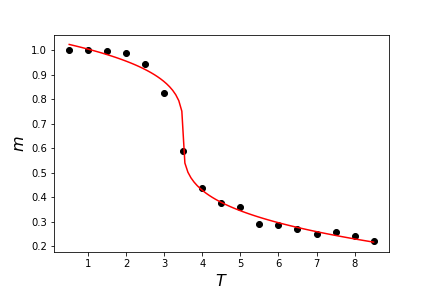
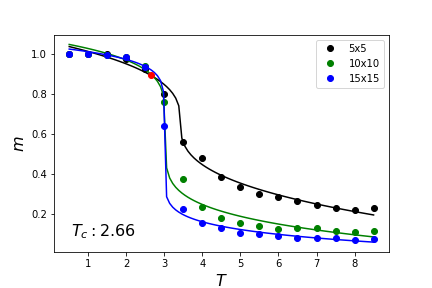
Add files via upload

diff --git a/plot_magnetization.py b/plot_magnetization.py
@@ -6,7 +6,14 @@ import numpy as np
 import matplotlib.pyplot as plt
 from localupdate import LocalUpdater
 from wolffupdate import WolffUpdater
+from scipy.optimize import curve_fit
 
+#function to fit to magnetization
+def mag_function(x,a,b,c,e):
+    less_func = lambda x: a*np.power(-x + b, 1./e) + c
+    more_func = lambda x: -a*np.power((x - b), 1./e) + c
+    y = np.piecewise(x, [x==b, x<b, x>b], [c, less_func, more_func])
+    return y
 
 #global variables (temporary)
 J_factor = 1.0e-4 #nearest-neighbor term factor
@@ -75,46 +82,64 @@ def calc_mag(T):
     #calculate magnetization
     state_chain=state_chain[1500:]
 
-
     mags=[]
     for s in state_chain:
         mags.append(abs(np.sum(s)) / float(size**2))
     
-    print(size, T)
-    
     return np.mean(mags)
     
-    
-Ts = np.arange(15000, 34000, 1000)
 
 Ts = np.arange(0.5,9.,0.5)
+step = (Ts[-1] - Ts[0]) / 100
+T_plot = np.arange(Ts[0], Ts[-1]+step, step)
 
-size = 5 #size of state in 1D
-mags = []
-for T in Ts:
-    mags.append(calc_mag(T))
-p1,=plt.plot(Ts, mags, 'ko')
+sizes=[5,10,15]
+colors=['k','g','b']
+ps=[]
+labels=[]
+last_y = np.zeros(len(T_plot))
+T_intersect = []
+y_intersect = []
+for i in range(len(sizes)):
+    size = sizes[i]
+    
+    #plot data points
+    mags=[]
+    for T in Ts:
+        mags.append(calc_mag(T))
+        print(size, T)
+    p1,=plt.plot(Ts, mags, colors[i]+'o')
+    ps.append(p1)
+    labels.append(str(size)+'x'+str(size))
 
-size = 10 #size of state in 1D
-mags = []
-for T in Ts:
-    mags.append(calc_mag(T))
-p2,=plt.plot(Ts, mags, 'go')
+    #perform fit
+    par, cov = curve_fit(mag_function, Ts[1:], mags[1:], p0=[1., 2.5, 0.5, 4.])
+    print(par)
+    
+    ys = mag_function(T_plot, par[0],par[1],par[2],par[3])
+    plt.plot(T_plot, ys, colors[i])
 
-size = 15 #size of state in 1D
-mags = []
-for T in Ts:
-    mags.append(calc_mag(T))
-p3,=plt.plot(Ts, mags, 'bo')
+    #find intersection
+    if np.sum(last_y) != 0:
+        idx = np.argwhere(np.diff(np.sign(last_y - ys))).flatten()
+        T_intersect.extend(T_plot[idx])
+        y_intersect.extend(ys[idx])
+        
+    last_y = ys
 
-plt.legend([p1,p2,p3],['5x5','10x10','15x15'])
+#plot critical temperature
+print(T_intersect)
+plt.plot(T_intersect[0], y_intersect[0], 'ro')
+ax = plt.gca()
+plt.text(0.05,0.05,r'$T_c: $'+'{0:.2f}'.format(T_intersect[0]),fontsize=16,ha='left',va='bottom',transform=ax.transAxes)
 
-
+#plot legend
+if len(sizes) > 1:
+    plt.legend(ps, labels)
 
 T_c = (2/np.log(1+np.sqrt(2))) * (J_factor/k_b)
 print(T_c)
-
-plt.plot([T_c, T_c], [0,1], 'r--')
+#plt.plot([T_c, T_c], [0,1], 'r--')
 
 
 plt.xlabel(r'$T$', fontsize=16)
